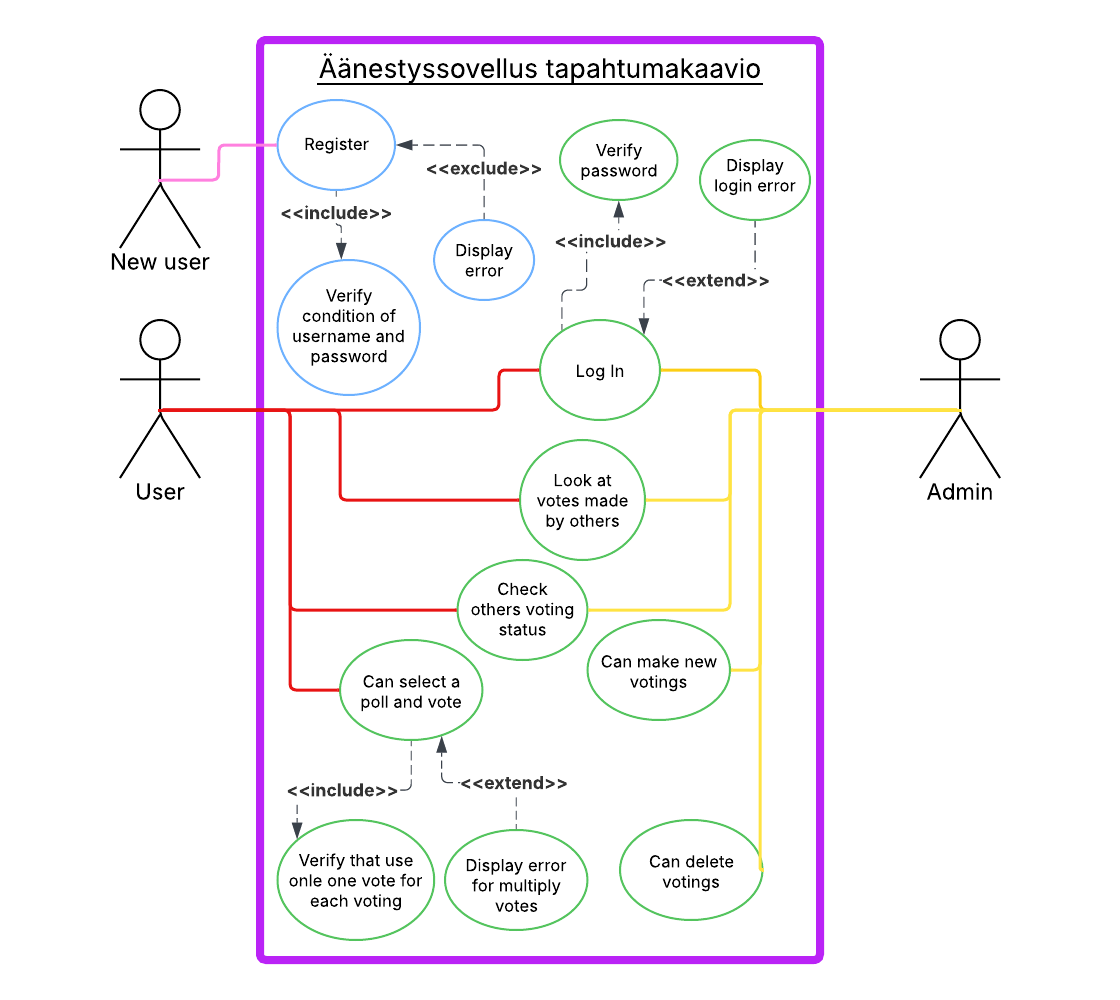
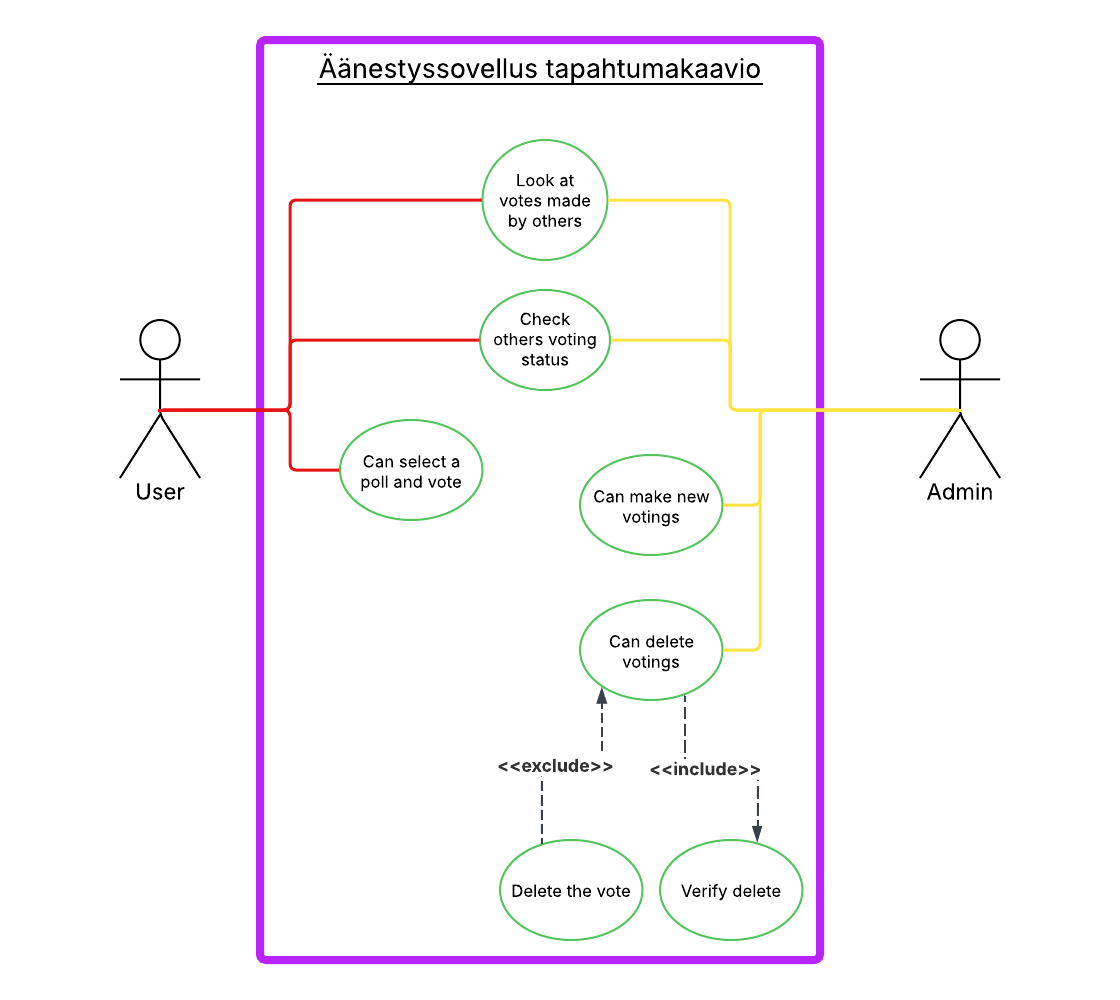
siivottu koodia turhasta

Changed region(s): [[0.1875, 0.093, 0.7188, 0.93], [0.125, 0.093, 0.1875, 0.217], [0.0938, 0.248, 0.1875, 0.279]]

diff --git a/admin.js b/admin.js
@@ -3,7 +3,7 @@ let userBtn = document.getElementById("userbtn");
 let aanestyksenLuontiPainike = document.getElementById("luoaanestys");
 
 document.querySelectorAll('input[name="role"]').forEach((radio) => {
-    radio.addEventListener('change', () => {        /**LUO ÄÄNESTYS PAINIKE */
+    radio.addEventListener('change', () => {        
         if (adminBtn.checked) {
             if (!document.getElementById("votingbtn")) {
                 let luoAanestysBtn = document.createElement("button");
@@ -17,7 +17,7 @@ document.querySelectorAll('input[name="role"]').forEach((radio) => {
             }
         } else {
             let nakyvaBtn = document.getElementById("votingbtn");
-            if (nakyvaBtn) {                    /**POISTA LUON ÄÄNESTYS PAINIKE */
+            if (nakyvaBtn) {                    
                 nakyvaBtn.remove();
             }
         }
@@ -110,7 +110,7 @@ function poistaAanestys(event) {
     let targetElement = event.target;
     let aanestyksenPoisto = targetElement.closest(".voting");
     if (aanestyksenPoisto) {
-        let vahvistus = confirm("Haluatko varmasti poistaa äänestyksen");
+        let vahvistus = confirm("Haluatko varmasti poistaa äänestyksen?");
         if (vahvistus) {
             aanestyksenPoisto.remove();
         }
@@ -150,7 +150,7 @@ function päivitäGrafiikka(äänestysElementti, äänet) {
 
         label.innerHTML = `
             ${vaihtoehtoSisältö}
-            <div style="height: 10px; background-color: green; width: ${prosentit}%; margin-top: 5px;"></div>
+            <div style="height: 15px; background-color: green; width: ${prosentit}%; margin-top: 5px;"></div>
             <small>Ääniä ${ääntenlaskija} kpl (${prosentit.toFixed(1)}%)</small>
             `;
     });

diff --git a/admin.html b/admin.html
@@ -17,7 +17,7 @@
                 <label class="btn" for="adminbtn">Ylläpitäjä</label>
 
                 <input type="radio" class="btn-check" name="role" id="userbtn" autocomplete="off">
-                <label class="btn" for="userbtn">Käyttäjä</label>
+                <label class="btn" for="userbtn">Äänestäjä</label>
             </div>
             <div id="luoaanestys" class="ms-3"></div>
         </div>
@@ -57,7 +57,6 @@
     </div>
     <div id="aanestykset" class="d-flex flex-column justify-content-center" style="max-width: 500px; margin: 0 auto;"></div>
     <script src="admin.js"></script>
-    <script src="main.js"></script>
     <script src="https://cdn.jsdelivr.net/npm/bootstrap@5.3.5/dist/js/bootstrap.bundle.min.js" integrity="sha384-k6d4wzSIapyDyv1kpU366/PK5hCdSbCRGRCMv+eplOQJWyd1fbcAu9OCUj5zNLiq" crossorigin="anonymous"></script>  
 </body>
 </html>

diff --git a/README.md b/README.md
@@ -1,31 +1,27 @@
 # Äänestyssovellus
 
-Tämä on äänestyssovellus, jossa  uusi käyttäjä rekisteröityy ja tämän jälkeen voi kirjautua sovellukseen sisään.
+Tämä on äänestyssovellus, jossa  käyttäjä valitsee roolikseen joko ylläpitäjä tai äänestäjä.
 
-Kun käyttäjä on kirjautunut sisään sovellukseen, voi hän tarkastella muiden antamia ääniä eri äänestyksissä ja tarkastaa äänestystilanteen. Käyttäjä voi myös valita äänestyksen ja antaa äänen kyseisessä äänestyksessä. Käyttäjä voi antaa vain yhden äänen per äänestys. 
+Sovelluksen eri rooleilla on eri oikeuksia sovelluksessa.
 
-Sovelluksella on myös ylläpitäjä jolla on hieman laajemmat oikeudet käyttäjään verrattuna. Ylläpitäjä voi edellämainittujen asioiden lisäksi myös luoda äänestyksiä ja poistaa niitä.
+Sovelluksella ylläpitäjä voi luoda uusia äänestyksiä sekä poistaa niitä. 
+
+Äänestäjä pääsee näkemään luotuja äänestyksiä ja niiden tilanteita sekä äänestää valitsemaansa äänestystä.
 
 ## Sovelluksen repository
 
 https://github.com/heksidee/aanestyssovellus.git
 
-## Uuden käyttäjän rekisteröityminen
+## Uuden äänestyksen luominen
 
-Käyttäjän tulee rekisteröityä ensimmäisellä kerralla. Käyttäjänimi saa sisältää vain kirjaimia tai numeroita. Jos käyttäjänimi sisältää erikoismerkkejä, antaa sovellus tästä virheilmoituksen. 
+Kun ylläpitäjä luo uuden äänestyksen, on siinä oltava kysymys ja vähintään kaksi vaihtoehtoa. Vaihtoehtoja äänestykseen voi luoda enemmänkin kuin kaksi. Jos tarvittavat kentät äänestyksen luomisessa eivät täytä kriteerejä, antaa sovellus tästä ilmoituksen.
 
-Salasanan tulee sisältää vähintään 6 merkkiä, joista vähintään yhden on oltava iso kirjain ja vähintään yhden numero. Jos nämä ehdot eivät täyty, antaa sovellus tästä virheilmoituksen. 
+## Äänestys
 
-## Sisäänkirjautuminen sovellukseen
+Käyttäjä ei voi antaa tyhjää ääntä, eli sovellus antaa ilmoituksen jos jotain vaihtoehtoa ei ole valittu. Käyttäjä voi äänestää useamman kerran samaa äänestystä. 
 
-Kun sovellukseen kirjaudutaan sisään käyttäjänä tai ylläpitäjänä, tarkastaa sovellus aina käyttäjänimen sekä salasanan. Jos edellämainitut ovat hyväksyttyjä, päästää sovellus kirjautumaan sisään. Jos jompikumpi, käyttäjänimi tai salasana, eivät täsmää antaa sovellus siitä ilmoituksen.
+Käyttäjälle näkyy äänijakauma ja grafiikka kyseisen äänestyksen tilanteesta.
 
-## Käyttäjän sisäänkirjauduttua
+## Äänestyksen poistaminen
 
-Kun käyttäjä on kirjautunut sisään sovellukseen, näkee hän etusivulla ylläpitäjän tekemiä äänestyksiä sekä muiden käyttäjien antamat äänet äänestyksissä. 
-
-Käyttäjän on mahdollista äänestää luoduissa äänestyksissä. Rajoituksena käyttäjällä on kuitenkin yksi ääni per äänestys. Sovellus tarkastaa tämän ehdon aina ja jos käyttäjä yrittää antaa toisen äänen äänestyksessä, antaa sovellus tästä virheilmoituksen. 
-
-## Ylläpitäjän sisäänkirjauduttua
-
-Ylläpitäjä voi tarkastaa ääniä joita on annettu äänestyksissä ja niiden tilanteen. Ylläpitäjä voi myös luoda uusia äänestyksiä sekä poistaa näitä. 
+Kun ylläpitäjä poistaa äänestystä, kysyy sovellus aina varmistuksen, haluaako ylläpitäjä varmasti poistaa äänestyksen. 
